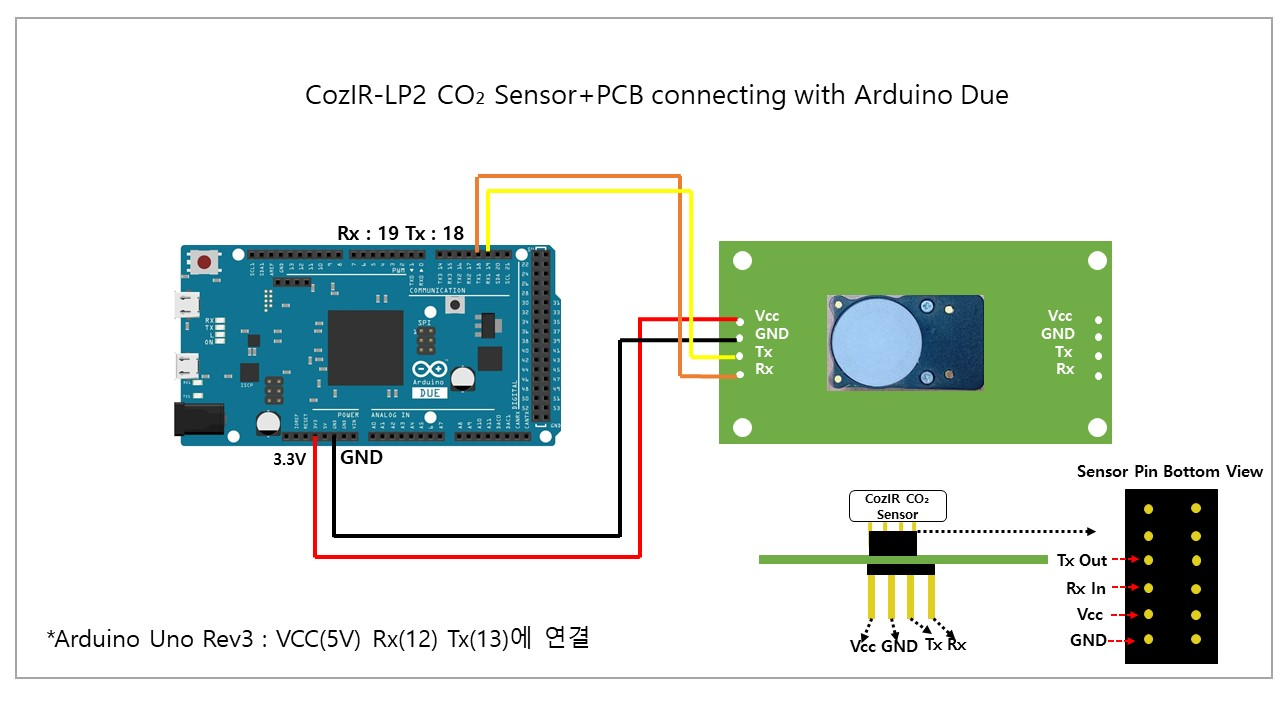
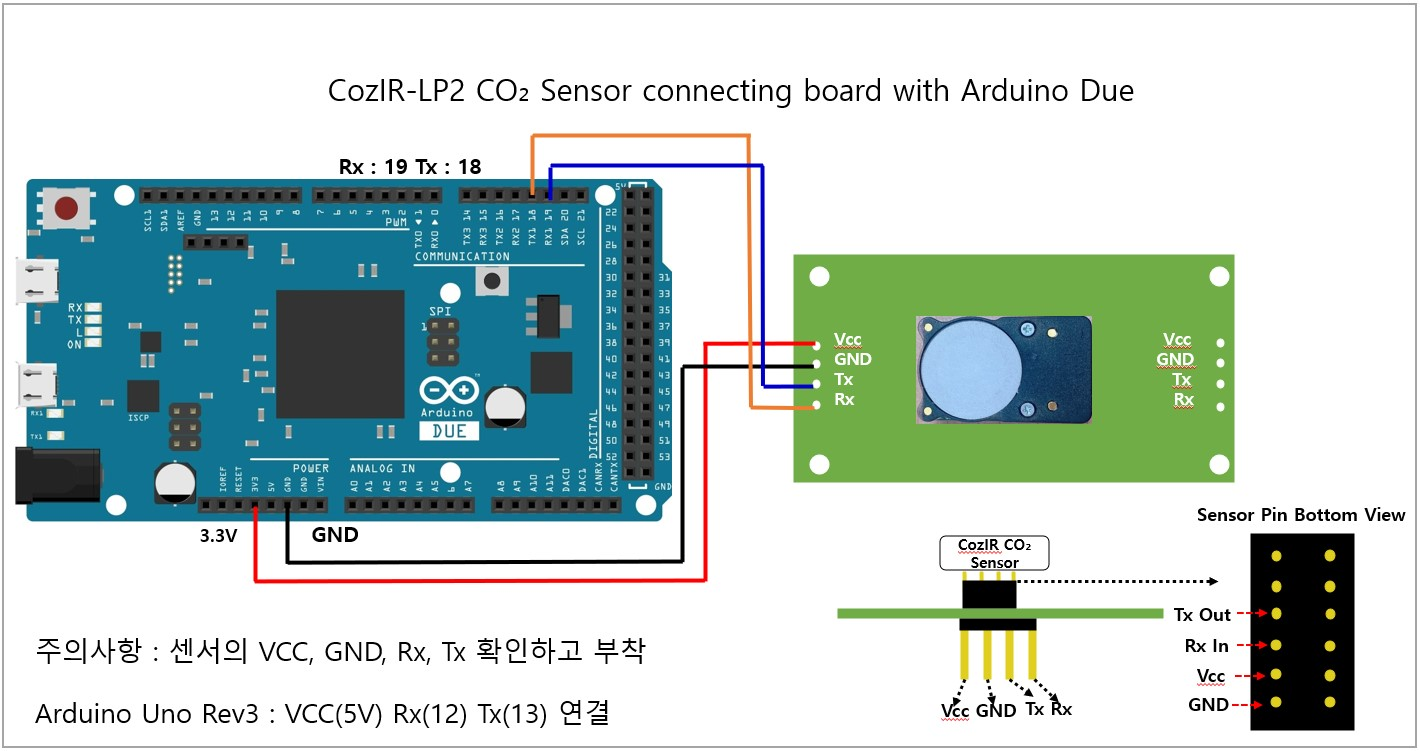
GitBook: [#279] No subject

Changed region(s): [[0.0, 0.0, 1.0, 1.0], [0.8125, 0.4278, 0.875, 0.55]]

diff --git a/product-document/gss/cozir-lp2.md b/product-document/gss/cozir-lp2.md
@@ -42,7 +42,7 @@
 
 #### 2)환경 구축
 
-![](<../../.gitbook/assets/CozIR LP2 Sensor with connecting arduino due (2).jpg>)
+![](<../../.gitbook/assets/CozIR LP2 Sensor with connecting arduino due.jpg>)
 
 ## 3.예제 Code
 
